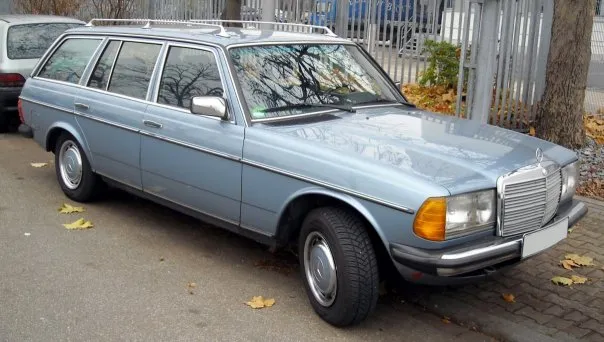
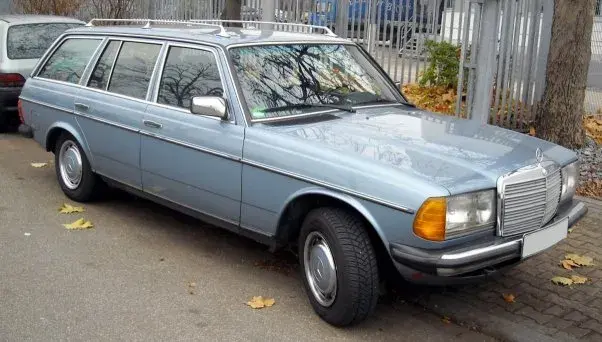
246

diff --git a/pic/ja_mb_img_e.html b/pic/ja_mb_img_e.html
@@ -575,8 +575,8 @@
 						<p class="i m1">(1) 08/1976</p>
 						<p class="i m2">(2) 08/1979</p>
 						<p class="i m2">(3) 09/1982</p><br>
-						<a href="full/e/s123_f2.jpg"><img loading="lazy" src="style/e/s123_f2.webp" alt="メルセデス,S123,フロント" width="604" height="342"></a>
-						<a href="full/e/s123_r2.jpg"><img loading="lazy" src="style/e/s123_r2.webp" alt="メルセデス,S123,リヤ" width="604" height="325"></a>
+						<a href="full/e/s123_f2.jpg"><img loading="lazy" src="style/e/s123_f2.webp" alt="メルセデス,S123,フロント" width="602" height="342"></a>
+						<a href="full/e/s123_r2.jpg"><img loading="lazy" src="style/e/s123_r2.webp" alt="メルセデス,S123,リヤ" width="602" height="325"></a>
 					</section>
 				</div>
 			</div>

diff --git a/pic/mb_img_e.html b/pic/mb_img_e.html
@@ -575,8 +575,8 @@
 						<p class="i m1">(1) 08/1976</p>
 						<p class="i m2">(2) 08/1979</p>
 						<p class="i m2">(3) 09/1982</p><br>
-						<a href="full/e/s123_f2.jpg"><img loading="lazy" src="style/e/s123_f2.webp" alt="Mercedes,S123,Frontansicht" width="604" height="342"></a>
-						<a href="full/e/s123_r2.jpg"><img loading="lazy" src="style/e/s123_r2.webp" alt="Mercedes,S123,Rückansicht" width="604" height="325"></a>
+						<a href="full/e/s123_f2.jpg"><img loading="lazy" src="style/e/s123_f2.webp" alt="Mercedes,S123,Frontansicht" width="602" height="342"></a>
+						<a href="full/e/s123_r2.jpg"><img loading="lazy" src="style/e/s123_r2.webp" alt="Mercedes,S123,Rückansicht" width="602" height="325"></a>
 					</section>
 				</div>
 			</div>

diff --git a/pic/en_mb_img_e.html b/pic/en_mb_img_e.html
@@ -575,8 +575,8 @@
 						<p class="i m1">(1) 08/1976</p>
 						<p class="i m2">(2) 08/1979</p>
 						<p class="i m2">(3) 09/1982</p><br>
-						<a href="full/e/s123_f2.jpg"><img loading="lazy" src="style/e/s123_f2.webp" alt="Mercedes,S123,Front view" width="604" height="342"></a>
-						<a href="full/e/s123_r2.jpg"><img loading="lazy" src="style/e/s123_r2.webp" alt="Mercedes,S123,Rear view" width="604" height="325"></a>
+						<a href="full/e/s123_f2.jpg"><img loading="lazy" src="style/e/s123_f2.webp" alt="Mercedes,S123,Front view" width="602" height="342"></a>
+						<a href="full/e/s123_r2.jpg"><img loading="lazy" src="style/e/s123_r2.webp" alt="Mercedes,S123,Rear view" width="602" height="325"></a>
 					</section>
 				</div>
 			</div>
